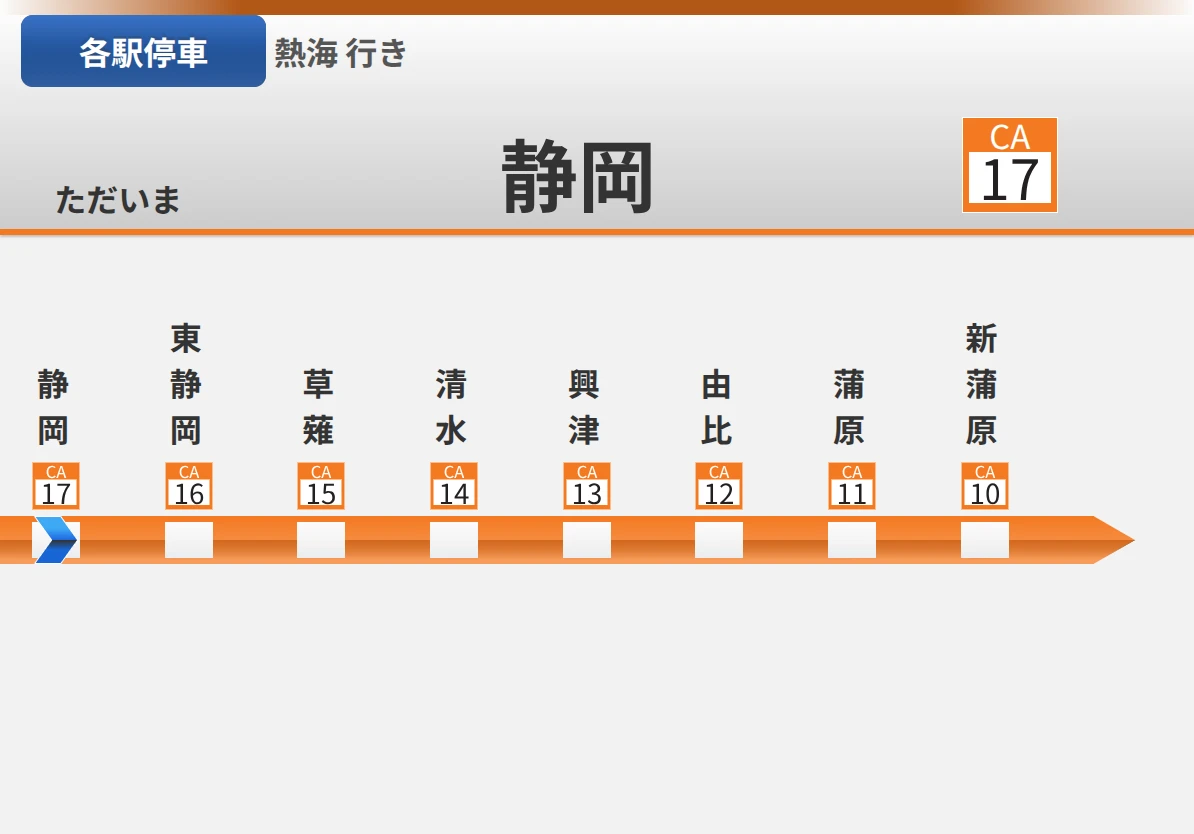
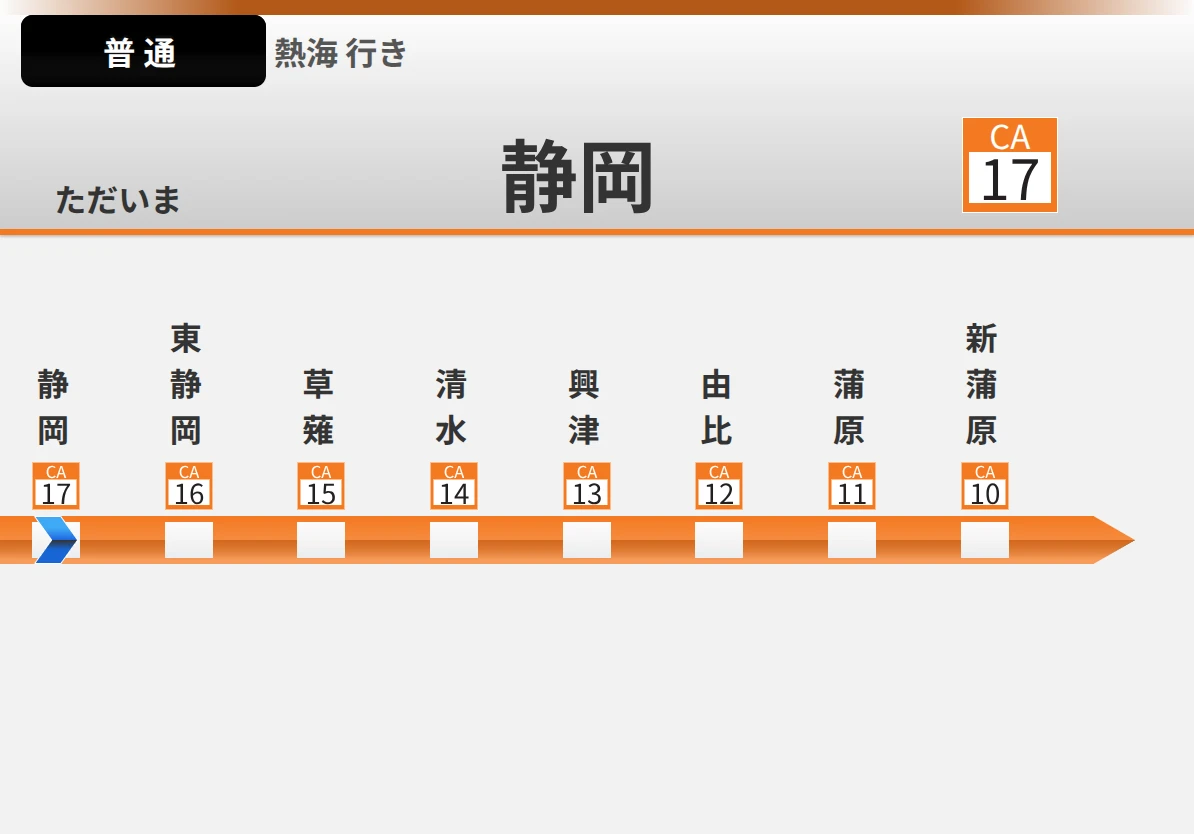
315系風の列車種別表示に埼京線風のグラデーションを流用

Changed region(s): [[0.0, 0.0, 0.2479, 0.1247]]

diff --git a/src/components/TrainTypeBox.tsx b/src/components/TrainTypeBox.tsx
@@ -34,6 +34,7 @@ import { computeTwoLineTypography } from '../utils/computeTwoLineTypography';
 import isTablet from '../utils/isTablet';
 import { isBusLine } from '../utils/line';
 import truncateTrainType from '../utils/truncateTrainType';
+import TrainTypeBoxSaikyoGradient from './TrainTypeBoxSaikyoGradient';
 import Typography from './Typography';
 
 type Props = {
@@ -45,7 +46,7 @@ type Props = {
   heightScale?: number;
   widthScale?: number;
   borderRadius?: number;
-  softGradient?: boolean;
+  saikyoGradient?: boolean;
 };
 
 export const resolveTrainTypeFontFamily = (
@@ -121,7 +122,7 @@ const TrainTypeBox: React.FC<Props> = ({
   heightScale = 1,
   widthScale = 1,
   borderRadius = 4,
-  softGradient = false,
+  saikyoGradient = false,
 }: Props) => {
   const fontSizeScale = Math.max(fontSizeScaleRaw, 0.1);
   const boxHeight = BOX_HEIGHT * Math.max(heightScale, 0.1);
@@ -360,47 +361,40 @@ const TrainTypeBox: React.FC<Props> = ({
   return (
     <View>
       <View style={[styles.box, boxSizeStyle]}>
-        <LinearGradient
-          colors={
-            softGradient
-              ? ['#666', '#222', '#333', '#555']
-              : ['#aaa', '#000', '#000', '#aaa']
-          }
-          locations={
-            softGradient
-              ? [0, 0.35, 0.7, 1]
-              : darkenColor
-                ? [0.35, 0.35, 0.35, 0.9]
-                : [0.5, 0.5, 0.5, 0.9]
-          }
-          style={gradientStyle}
-        />
-        <LinearGradient
-          colors={[`${trainTypeColor}ee`, `${trainTypeColor}aa`]}
-          style={gradientStyle}
-        />
-        {darkenColor ? (
+        {saikyoGradient ? (
+          <TrainTypeBoxSaikyoGradient
+            trainTypeColor={trainTypeColor}
+            style={gradientStyle}
+          />
+        ) : (
           <>
             <LinearGradient
-              colors={
-                softGradient
-                  ? ['#00000000', '#00000018', '#00000000']
-                  : ['#00000000', '#00000033', '#00000000']
+              colors={['#aaa', '#000', '#000', '#aaa']}
+              locations={
+                darkenColor ? [0.35, 0.35, 0.35, 0.9] : [0.5, 0.5, 0.5, 0.9]
               }
-              locations={softGradient ? [0, 0.55, 1] : [0.35, 0.55, 0.85]}
               style={gradientStyle}
             />
             <LinearGradient
-              colors={
-                softGradient
-                  ? ['#ffffff18', '#ffffff08', '#00000000']
-                  : ['#ffffff44', '#ffffff11', '#00000000']
-              }
-              locations={softGradient ? [0, 0.45, 1] : [0, 0.35, 0.35]}
+              colors={[`${trainTypeColor}ee`, `${trainTypeColor}aa`]}
               style={gradientStyle}
             />
+            {darkenColor ? (
+              <>
+                <LinearGradient
+                  colors={['#00000000', '#00000033', '#00000000']}
+                  locations={[0.35, 0.55, 0.85]}
+                  style={gradientStyle}
+                />
+                <LinearGradient
+                  colors={['#ffffff44', '#ffffff11', '#00000000']}
+                  locations={[0, 0.35, 0.35]}
+                  style={gradientStyle}
+                />
+              </>
+            ) : null}
           </>
-        ) : null}
+        )}
 
         <View style={[styles.textWrapper, boxSizeStyle]}>
           <AnimatedTypography

diff --git a/src/components/TrainTypeBox.test.tsx b/src/components/TrainTypeBox.test.tsx
@@ -212,7 +212,7 @@ describe('TrainTypeBox 2行種別の可読性', () => {
     heightScale = 1,
     widthScale = 1,
     borderRadius?: number,
-    gradientProps: { darkenColor?: boolean; softGradient?: boolean } = {}
+    gradientProps: { darkenColor?: boolean; saikyoGradient?: boolean } = {}
   ) => {
     (useAtomValue as jest.Mock).mockImplementation((atom: unknown) => {
       if (atom === headerStateAtom) return 'CURRENT_JA';
@@ -302,27 +302,19 @@ describe('TrainTypeBox 2行種別の可読性', () => {
   );
 
   it.each([false, true])(
-    'softGradient=%pの段階位置を確認する',
-    (softGradient) => {
+    'saikyoGradient=%pの段階位置を確認する',
+    (saikyoGradient) => {
       const { UNSAFE_root } = renderWithScale(1.2, 1.3, 1.4, 8, {
         darkenColor: true,
-        softGradient,
+        saikyoGradient,
       });
       const layers = UNSAFE_root.findAllByType(LinearGradient);
       expect(layers).toHaveLength(4);
-      if (softGradient) {
-        for (const layer of layers) {
-          const locations = layer.props.locations as number[] | undefined;
-          locations?.forEach((position, index) => {
-            if (index > 0)
-              expect(position).toBeGreaterThan(locations[index - 1]);
-          });
-        }
-        expect(layers[3].props.colors).toEqual([
-          '#ffffff18',
-          '#ffffff08',
-          '#00000000',
-        ]);
+      if (saikyoGradient) {
+        expect(layers[0].props.colors).toEqual(['#000', '#000', '#fff']);
+        expect(layers[0].props.locations).toEqual([0.1, 0.5, 0.9]);
+        expect(layers[2].props.locations).toEqual([0.1, 0.5, 0.9]);
+        expect(layers[3].props.colors).toEqual(['#f00bb', '#f00ff']);
       } else {
         expect(layers[0].props.colors).toEqual([
           '#aaa',

diff --git a/src/components/TrainTypeBoxSaikyo.tsx b/src/components/TrainTypeBoxSaikyo.tsx
@@ -1,4 +1,3 @@
-import { LinearGradient } from 'expo-linear-gradient';
 import { useAtomValue } from 'jotai';
 import React, {
   useCallback,
@@ -32,6 +31,7 @@ import {
   getIsRapid,
 } from '~/utils/trainTypeString';
 import truncateTrainType from '~/utils/truncateTrainType';
+import TrainTypeBoxSaikyoGradient from './TrainTypeBoxSaikyoGradient';
 
 type Props = {
   trainType: TrainType | null;
@@ -279,22 +279,8 @@ const TrainTypeBoxSaikyo: React.FC<Props> = ({
   return (
     <View style={styles.root}>
       <View style={styles.container}>
-        <LinearGradient
-          colors={['#000', '#000', '#fff']}
-          locations={[0.1, 0.5, 0.9]}
-          style={styles.gradient}
-        />
-        <LinearGradient
-          colors={['#aaaaaaff', '#aaaaaabb']}
-          style={styles.gradient}
-        />
-        <LinearGradient
-          colors={['#000', '#000', '#fff']}
-          locations={[0.1, 0.5, 0.9]}
-          style={styles.gradient}
-        />
-        <LinearGradient
-          colors={[`${trainTypeColor}bb`, `${trainTypeColor}ff`]}
+        <TrainTypeBoxSaikyoGradient
+          trainTypeColor={trainTypeColor}
           style={styles.gradient}
         />
 

diff --git a/src/components/TrainTypeBoxSaikyoGradient.tsx b/src/components/TrainTypeBoxSaikyoGradient.tsx
@@ -1,0 +1,30 @@
+import { LinearGradient } from 'expo-linear-gradient';
+import type React from 'react';
+import type { StyleProp, ViewStyle } from 'react-native';
+
+type Props = { trainTypeColor: string; style: StyleProp<ViewStyle> };
+
+const TrainTypeBoxSaikyoGradient: React.FC<Props> = ({
+  trainTypeColor,
+  style,
+}) => (
+  <>
+    <LinearGradient
+      colors={['#000', '#000', '#fff']}
+      locations={[0.1, 0.5, 0.9]}
+      style={style}
+    />
+    <LinearGradient colors={['#aaaaaaff', '#aaaaaabb']} style={style} />
+    <LinearGradient
+      colors={['#000', '#000', '#fff']}
+      locations={[0.1, 0.5, 0.9]}
+      style={style}
+    />
+    <LinearGradient
+      colors={[`${trainTypeColor}bb`, `${trainTypeColor}ff`]}
+      style={style}
+    />
+  </>
+);
+
+export default TrainTypeBoxSaikyoGradient;

diff --git a/src/components/HeaderJRKyushu.test.tsx b/src/components/HeaderJRKyushu.test.tsx
@@ -174,7 +174,7 @@ describe('HeaderJRKyushu', () => {
       expect(jest.mocked(TrainTypeBox).mock.calls.at(-1)?.[0]).toEqual(
         expect.objectContaining({
           darkenColor: true,
-          softGradient: true,
+          saikyoGradient: true,
           fontSizeScale: 1.2,
           heightScale: 1.3,
           widthScale: 1.4,

diff --git a/src/components/HeaderJRKyushu.tsx b/src/components/HeaderJRKyushu.tsx
@@ -173,7 +173,7 @@ const HeaderJRKyushu: React.FC<Props> = (props) => {
             <TrainTypeBox
               trainType={trainType}
               darkenColor
-              softGradient
+              saikyoGradient
               fontSizeScale={1.2}
               heightScale={1.3}
               widthScale={1.4}
